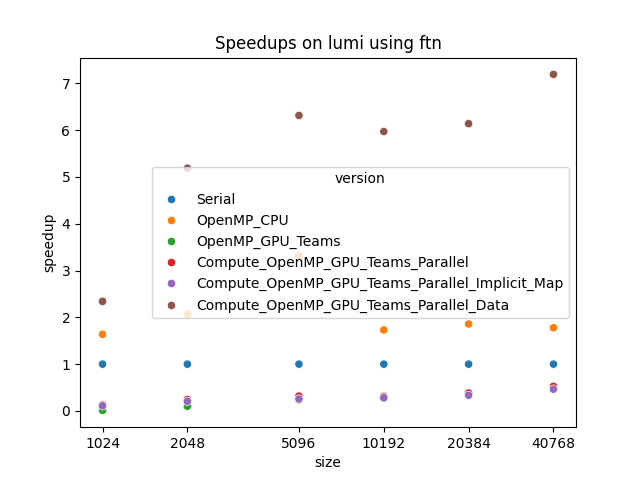
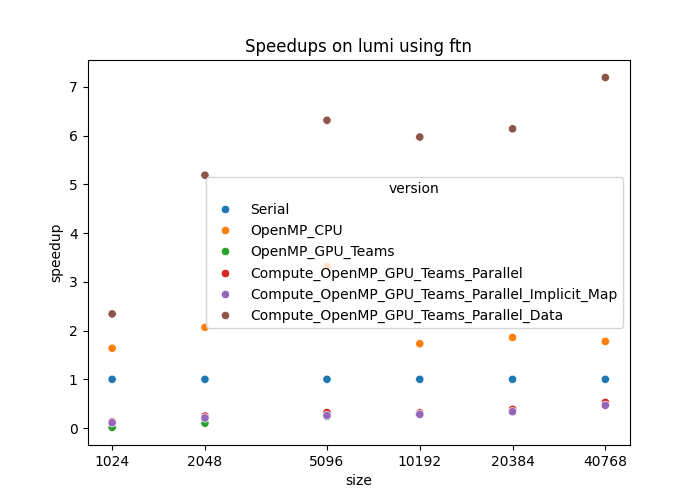
New figures

diff --git a/benchmarking/visualize.py b/benchmarking/visualize.py
@@ -23,19 +23,19 @@ def plot_x_version(speedups, computer, compiler):
         "OpenMP_CPU": "OpenMP\nCPU",
         "OpenMP_GPU_Teams": "OpenMP\nGPU Teams",
         "Compute_OpenMP_GPU_Teams_Parallel": "OpenMP\nGPU Teams\nParallel",
-        "Compute_OpenMP_GPU_Teams_Parallel_Implicit_Map": "OpenMP\nGPU Teams\nParallel Implicit Map",
+        "Compute_OpenMP_GPU_Teams_Parallel_Implicit_Map": "OpenMP\nGPU Teams\nParallel\nImplicit Map",
         "Compute_OpenMP_GPU_Teams_Parallel_Data": "OpenMP\nGPU Teams\nParallel Data",
     }
     speedups["version"] = speedups["version"].map(version_trans)
 
-    plt.figure().gca()
+    plt.figure(figsize=(7,7)).gca()
     sns.lineplot(data=speedups, x="version", y="speedup", hue="size", palette="tab10", marker=".")
     plt.title(f"Speedups on {computer} using {compiler}")
     plt.savefig(f"figures/{computer}_{compiler}_version.png")
 
 
 def plot_x_size(speedups, computer, compiler):
-    ax = plt.figure().gca()
+    ax = plt.figure(figsize=(7,5)).gca()
     sns.scatterplot(data=speedups, x="size", y="speedup", hue="version", palette="tab10")
 
     # Style and show.
